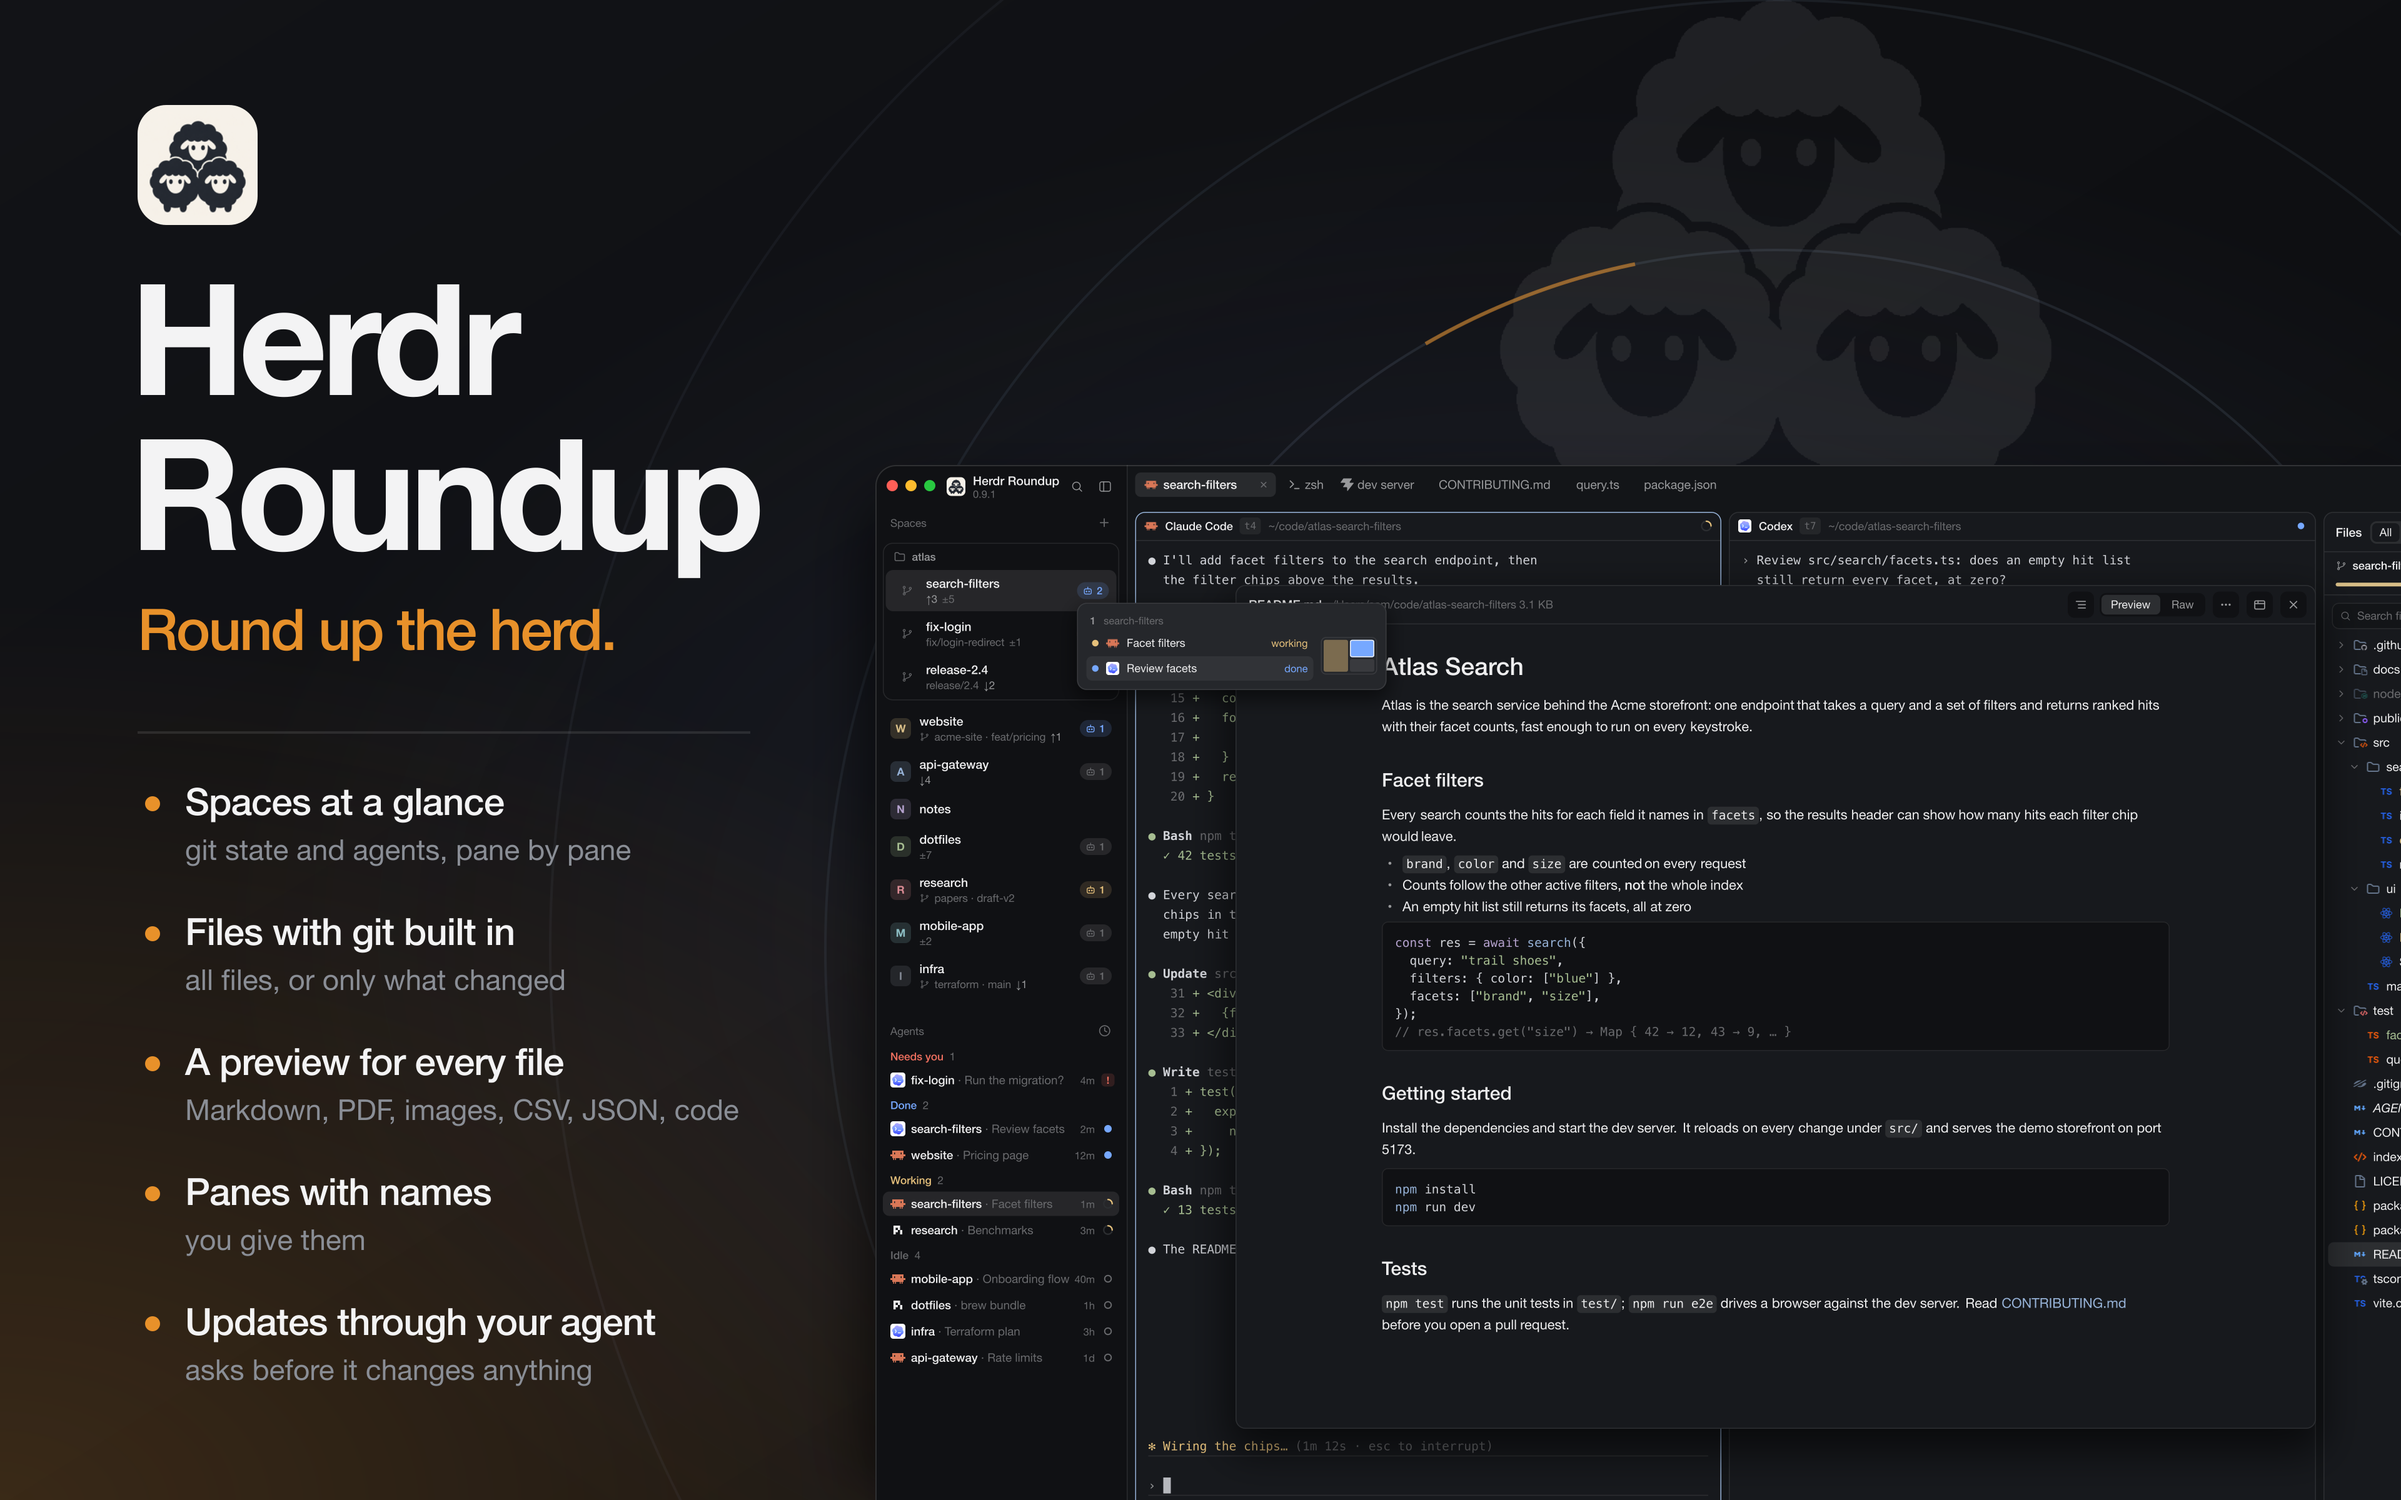
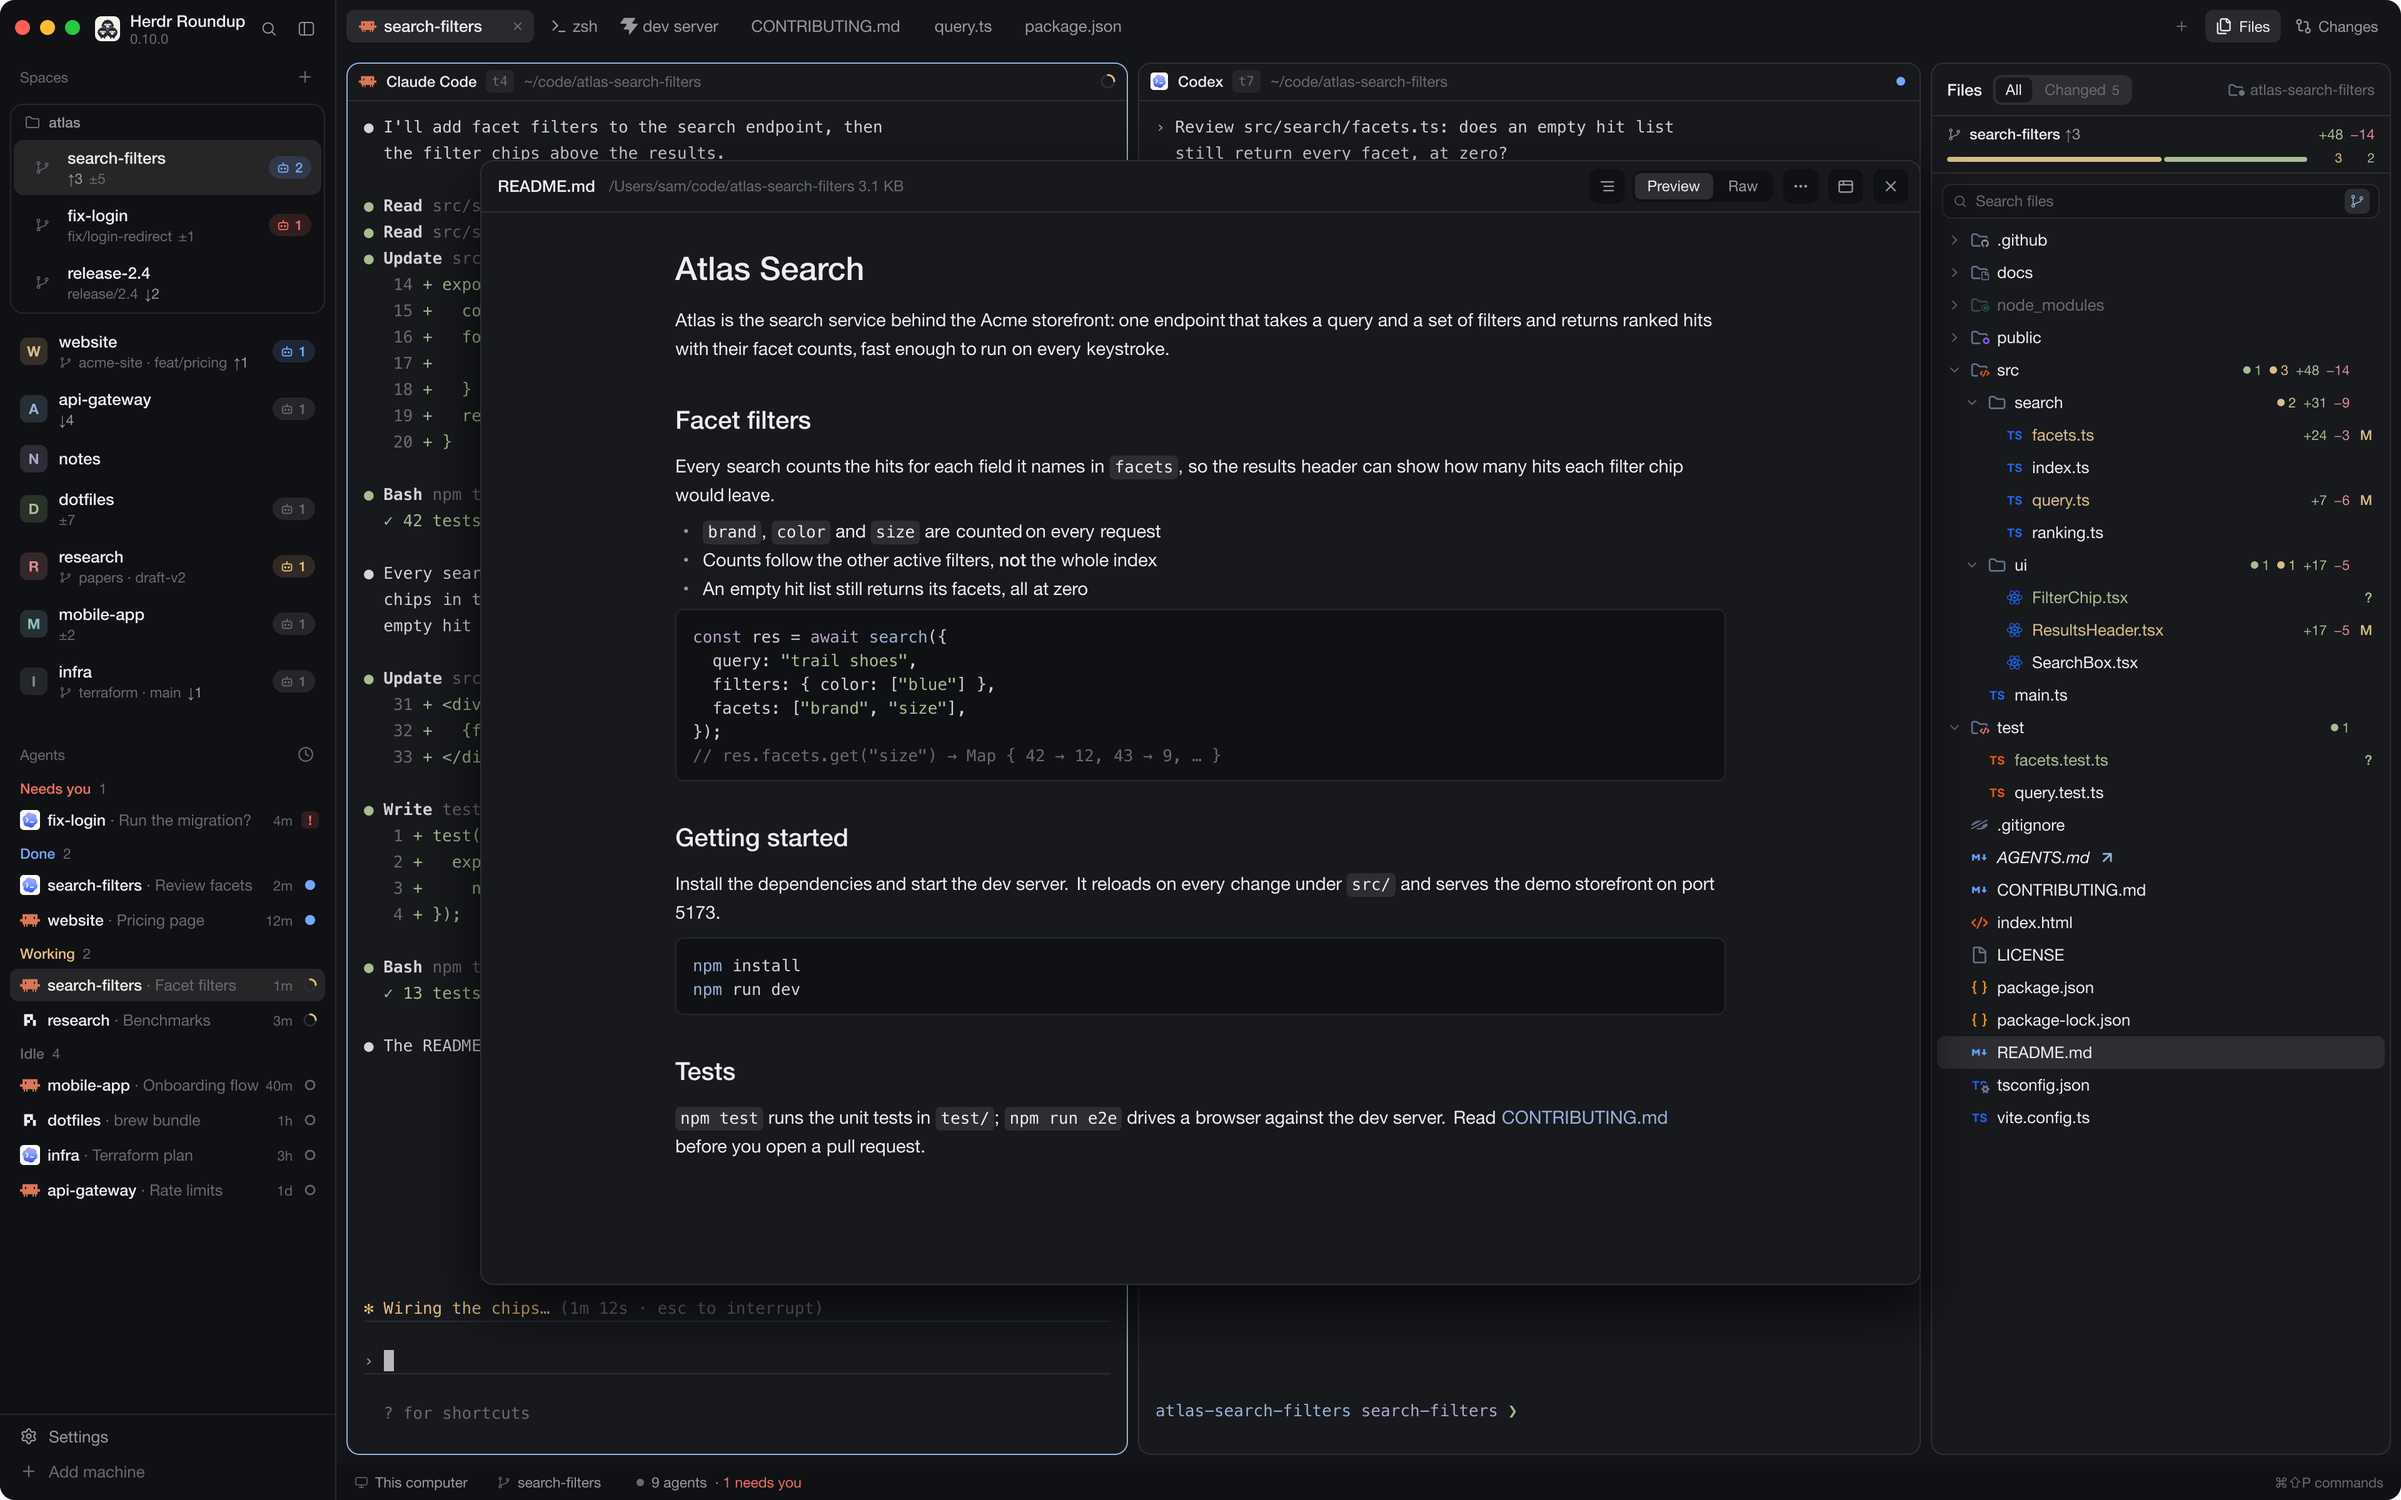
fix: preview.png is a plain picture of the window again, for herdr.dev's gallery (#35)
herdr.dev's gallery screens its pictures, and the layout has been missing
from it since preview.png became the poster (name, claim and features
beside the window). preview.png is now layouts/Herdr-Roundup.svg rendered
at twice its size, the window Settings shows; the SVG is redrawn, so it
shows 0.10.0 instead of 0.9.1. README shows the poster as
assets/poster.png. Test and catalog row LAY-23.

diff --git a/scripts/preview.py b/scripts/preview.py
@@ -6,8 +6,9 @@
 #   python3 scripts/preview.py . layouts/Herdr-Roundup.svg
 #   rsvg-convert -z 2 layouts/Herdr-Roundup.svg -o preview.png
 # Settings shows the SVG: the bare window, as it is without a scene (or with the scene "window").
-# README.md and RECIPE.md show the PNG, drawn from the poster instead:
-#   python3 scripts/preview.py . /tmp/poster.svg poster && rsvg-convert -z 2 /tmp/poster.svg -o preview.png
+# RECIPE.md and herdr.dev's gallery show the PNG: the same plain window, no poster (the gallery
+# screens its pictures and dropped the poster). README.md shows the poster instead:
+#   python3 scripts/preview.py . /tmp/poster.svg poster && rsvg-convert -z 2 /tmp/poster.svg -o assets/poster.png
 # The poster puts the window beside name, claim and the main features (FEATURES), the sheep sunk
 # into the background above it; its window shows the quicklook card of search-filters' agents. assets/logo-mark.png is assets/logo.png in grey, 480px, 8 colors;
 # a filter turns its dark wool into the light mark. "poster" is no scene: --scenes leaves it out.
@@ -23,7 +24,7 @@ if sys.argv[1:] == ["--scenes"]:
     print("\n".join(SCENES))
     sys.exit()
 REPO, OUT = sys.argv[1], sys.argv[2]
-# "poster": the bare window in its poster, for preview.png. No scene: the bare window, Settings' preview.
+# "poster": the bare window in its poster, for assets/poster.png. No scene: the bare window, Settings' preview.
 POSTER = sys.argv[3:4] == ["poster"]
 SCENE = sys.argv[3] if len(sys.argv) > 3 and not POSTER else "window"
 if SCENE != "window" and SCENE not in SCENES:

diff --git a/README.md b/README.md
@@ -8,7 +8,7 @@ A layout for [Herdr App](https://herdr.dev), built on Herdr's default layout (`m
 
 The layout is called `Herdr-Roundup`: Herdr's Settings show a layout by its file name, and a name with a space can't be switched to. Its mods keep the short `roundup-` prefix.
 
-[![Herdr-Roundup: name, claim and main features beside the window, with Claude Code working beside Codex (done) and a shell, their space's agent card open, and a README in the floating preview](preview.png)](https://carstenlucke.github.io/herdr-roundup/)
+[![Herdr-Roundup: name, claim and main features beside the window, with Claude Code working beside Codex (done) and a shell, their space's agent card open, and a README in the floating preview](assets/poster.png)](https://carstenlucke.github.io/herdr-roundup/)
 
 ## Contents
 
@@ -18,12 +18,12 @@ The layout is called `Herdr-Roundup`: Herdr's Settings show a layout by its file
 | `mods/roundup-*/` | The layout's own mods. Until a mod is cloned here, the layout uses Herdr's shipped ones (`agents`, `changes`, `workspace-status`). The side panel's file list is `roundup-files`, in place of Herdr's `files`; a double-click on a file shows it in `roundup-preview`'s floating window, a Cmd-double-click in a tab of its own (Markdown, PDF, images, CSV/TSV, JSON, code) |
 | `themes/` | Themes. One named `Herdr-Roundup.json` is the layout's own: Settings offers it only there |
 | `keys.json` | The `layout:Herdr-Roundup` section: keys that apply only while this layout shows |
-| `assets/` | Files for this README, such as the logo |
+| `assets/` | Files for this README, such as the logo and the poster |
 | `docs/ARCHITECTURE_DECISIONS.md` | The few decisions whose reasons need keeping, and when to write one: an index, details in `docs/adr/` |
 | `docs/GITHUB_PAGES.md` | How the project page is made and published |
 | `scripts/sync.sh` | Installs all of the above into `~/.config/herdr-app` |
 | `site/` | The project's web page (GitHub Pages): `index.html`, `style.css` and its pictures in `site/img/` |
-| `scripts/preview.py` | Draws the layout's preview picture for Settings, with `poster` README's `preview.png`, and with a scene name the site's pictures |
+| `scripts/preview.py` | Draws the layout's preview picture for Settings, with `poster` README's `assets/poster.png`, and with a scene name the site's pictures |
 | `scripts/site.sh` | Redraws `site/img/` (needs `python3`, `rsvg-convert`, `cwebp` and Herdr App installed) |
 | `.github/workflows/pages.yml` | Publishes `site/` to GitHub Pages, only when run by hand |
 | `scripts/build-icons.mjs` | Regenerates `roundup-files`' icons from a pinned release of Symbols (needs `curl`, `unzip`, Node) |

diff --git a/tests/CATALOG.md b/tests/CATALOG.md
@@ -54,7 +54,8 @@ Nothing may need a person: there is no pointer or key injection, so L2 calls han
 | LAY-19 | `layout.switch --name Herdr-Roundup` switches: status shows `"layout": "Herdr-Roundup"`. | PR #1 body | L3 | smoke.sh LAY-19 | isolated Herdr | H |
 | LAY-20 | The shipped-mod assets the roundup mods draw exist in a started home: `mods/workspace-chrome/{spinner,check,branch,folder,plus,monitor,server,chevron-down,chevron-right,square-pen,x,panel-right,square,terminal}.svg`, `mods/pane/close.svg`, `mods/files/file.svg`, `mods/changes/changes.svg`. | RECIPE now (Built from) | L3 | smoke.sh LAY-20 | isolated Herdr | M |
 | LAY-21 | `scripts/preview.py` without a scene (and with `window`) draws the bare window, `layouts/Herdr-Roundup.svg` that Settings shows; only `poster` draws the poster for `preview.png`; `--scenes`, which site.sh draws, doesn't list `poster`. | PR #25 review | L1 | preview: `preview.py: Settings gets the bare window, only poster draws the poster, and --scenes leaves it out` | python3; stub program icons | M |
-| LAY-22 | The poster (`preview.png`) shows the agent quicklook card of search-filters (`id="quicklook"`) above the floating preview; the bare window for Settings shows none. | 0.9.0 poster | L1 | preview: `preview.py: the poster shows the agent quicklook card, Settings' window doesn't` | python3; stub program icons | L |
+| LAY-22 | The poster (`assets/poster.png`) shows the agent quicklook card of search-filters (`id="quicklook"`) above the floating preview; the bare window for Settings shows none. | 0.9.0 poster | L1 | preview: `preview.py: the poster shows the agent quicklook card, Settings' window doesn't` | python3; stub program icons | L |
+| LAY-23 | `preview.png` (RECIPE, herdr.dev's gallery) is `layouts/Herdr-Roundup.svg` rendered at twice its size (`rsvg-convert -z 2`): a plain picture of the window, not the poster. The gallery screens its pictures and left the layout out while `preview.png` was the poster; README shows the poster as `assets/poster.png`. | herdr.dev gallery, 2026-11-10 | L1 | preview: `preview.png is the bare window of layouts/Herdr-Roundup.svg, not the poster` | rsvg-convert (skipped without) | M |
 
 ## roundup-workspace-chrome (CHR)
 

diff --git a/docs/GITHUB_PAGES.md b/docs/GITHUB_PAGES.md
@@ -6,7 +6,7 @@ The project page: https://carstenlucke.github.io/herdr-roundup/
 
 - `site/` is the whole page: `index.html`, `style.css` and its pictures in `site/img/`. Static, no build step.
 - The pictures come from `scripts/preview.py`: each is a scene of the same drawn window, cropped to one feature. `scripts/site.sh` renders them all into `site/img/` (needs `python3`, `rsvg-convert`, `cwebp`, and Herdr App installed for its program icons). So they are made locally and committed, never in CI. It draws everything into a temporary folder first and replaces `site/img/` only when all pictures are done; `og.png` is the picture a shared link shows (PNG, which link previews widely support).
-- Without a scene (or with the scene `window`), `preview.py` draws the bare window: `layouts/Herdr-Roundup.svg`, the picture Settings shows, and what `site.sh` uses for `window.webp` and `og.png`. `poster` instead puts that window beside the name, the claim and the main features, only for `preview.png` (README, RECIPE, herdr.dev); it is no scene, so `--scenes` and `site.sh` leave it out. Keep it that way (tests/CATALOG.md LAY-21).
+- Without a scene (or with the scene `window`), `preview.py` draws the bare window: `layouts/Herdr-Roundup.svg`, the picture Settings shows, and what `site.sh` uses for `window.webp` and `og.png`. `preview.png` (RECIPE, herdr.dev's gallery) is that SVG rendered at twice its size: a plain picture of the window. The gallery screens its pictures and dropped the layout while `preview.png` was the poster (LAY-23). `poster` instead puts the window beside the name, the claim and the main features, only for README's `assets/poster.png`; it is no scene, so `--scenes` and `site.sh` leave it out. Keep it that way (tests/CATALOG.md LAY-21, LAY-23).
 
 ## Publishing
 

diff --git a/RECIPE.md b/RECIPE.md
@@ -11,7 +11,7 @@ share a card.
 Closing a tab or pane asks first while an agent works, and a new release
 installs through an agent. Light and dark themes alike.
 
-![Herdr-Roundup: name, claim and main features beside the window, with Claude Code working beside Codex (done) and a shell, their space's agent card open, and a README in the floating preview](preview.png)
+![Herdr-Roundup: Claude Code working beside Codex (done) and a shell, the files panel on the right, and a README in the floating preview](preview.png)
 
 ## What you see
 
